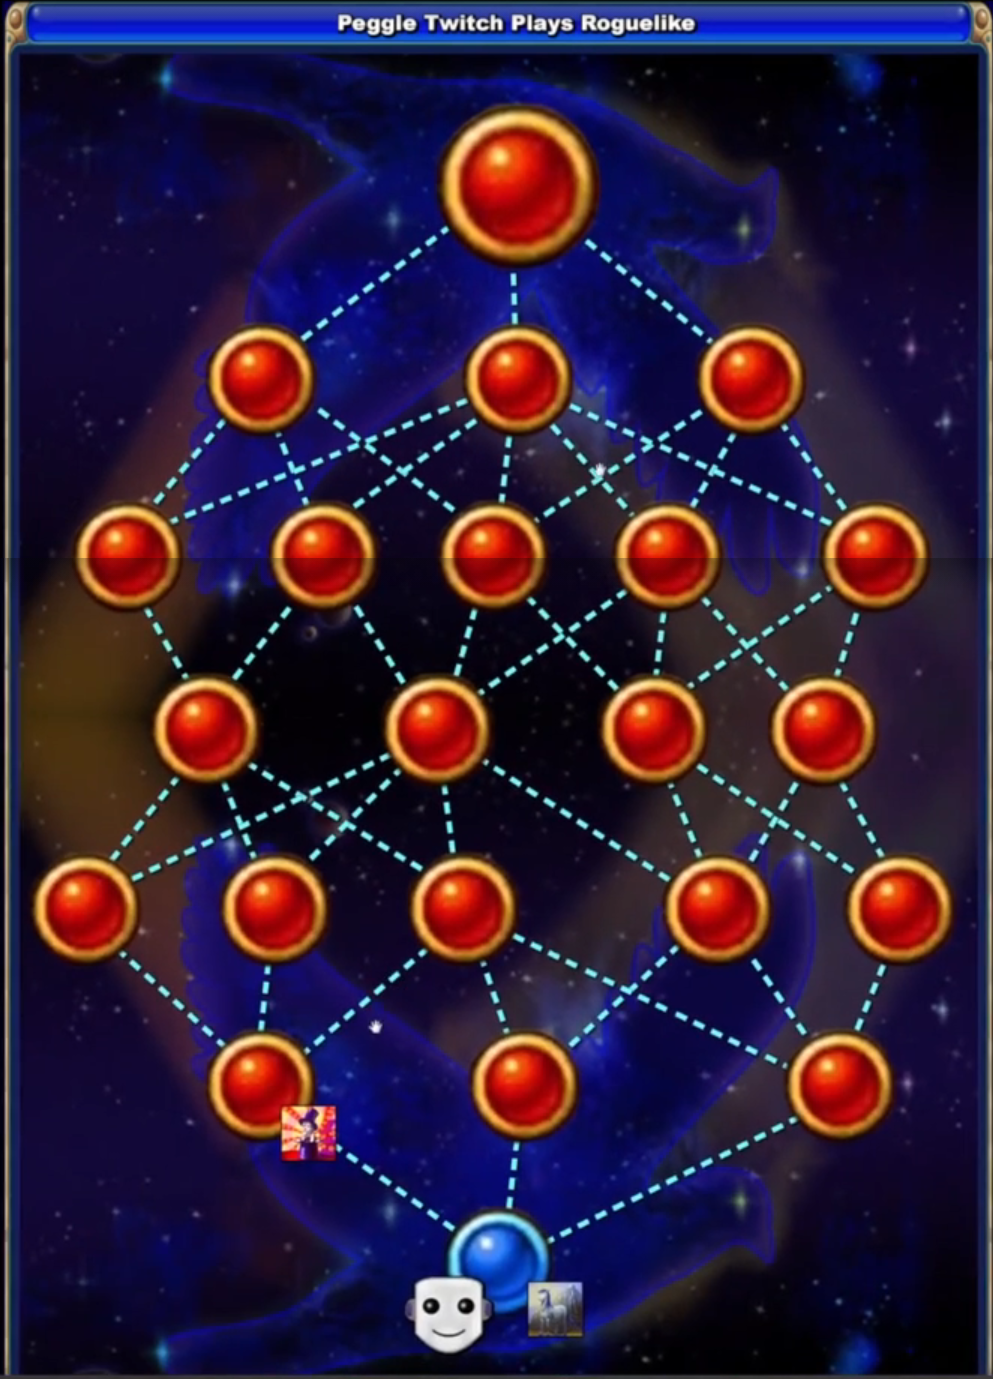
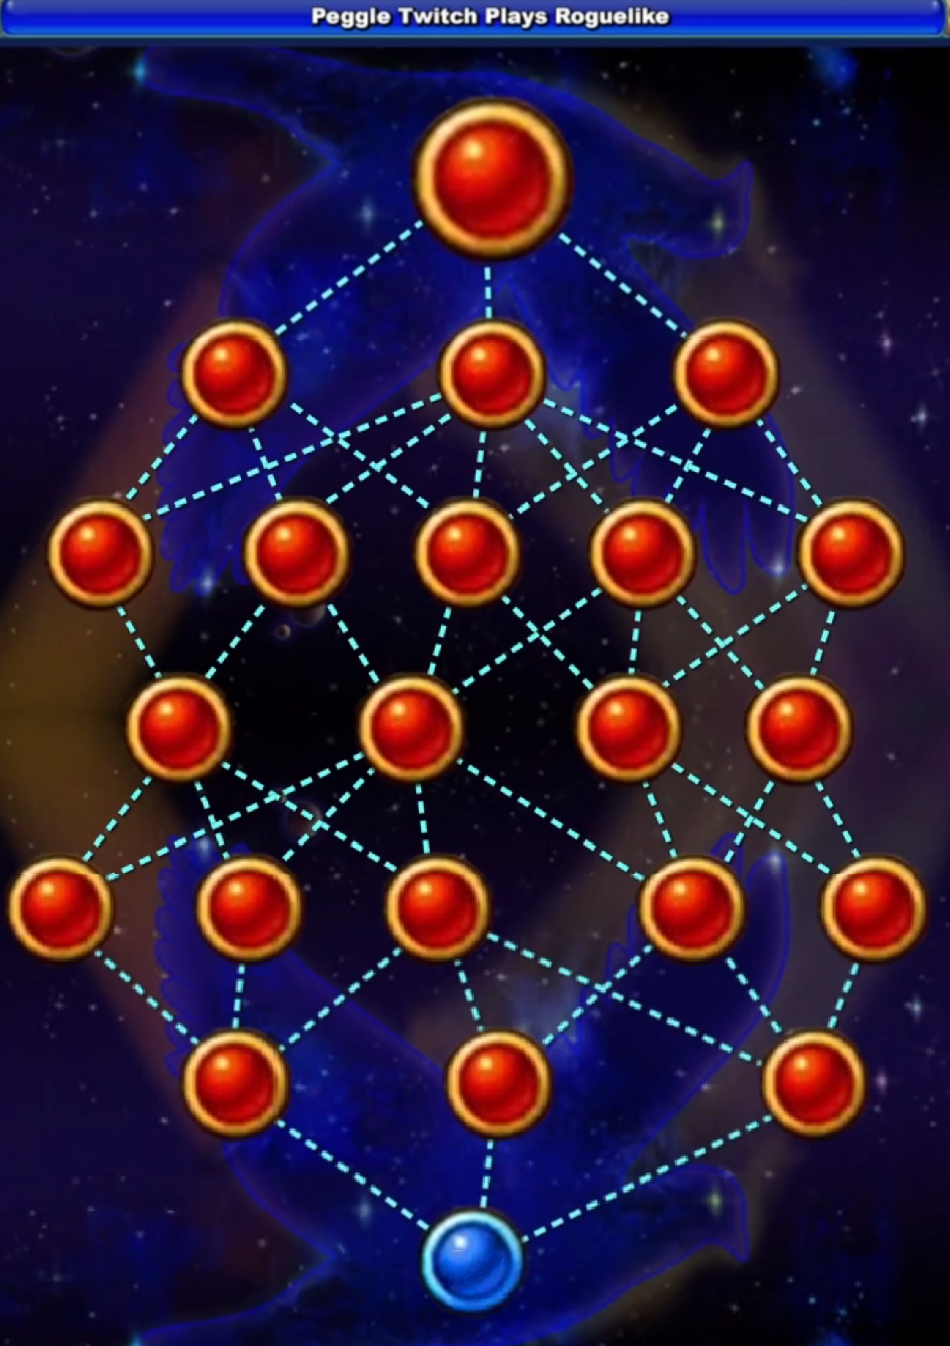
Initial Build v.0.2

diff --git a/main.py b/main.py
@@ -14,89 +14,136 @@
 
 
 import random
+import math
 from PIL import Image, ImageDraw, ImageFont
 
 font = ImageFont.truetype("C:\Windows\Fonts\ARLRDBD.TTF", 30)
-
-# array/dict of all peggle maps (constant)
-# 2d array of chapters-levels?
-
-# array of levels to choose from
-levels = []
-for chapter in range(5):
-    for level in range(5):
-        levels.append(str(chapter+1) + '-' + str(level+1))
-
-# array/list of all heroes (constant)
-heroes = ["Bjorn", "Jimmy", "Kat", "Splork", "Claude", "Renfield", "Tula", "Warren", "Cinderbottom", "Hu"]
-
-
-# array/list of main map (21 spots)
-main_map = []
-
-
-# add chapter-level and hero to map slot
-def add_level():
-    stage = levels.pop(random.randint(0, len(levels)-1))
-    # roll rng, pull a hero from array, put in main map/dict
-    hero = random.choice(heroes)
-
-    option = stage + " " + hero
-    main_map.append(option)
-
-
-# roll rng, pull 3 heroes from array, put in starting inventory (unique ideally)
-inventory = [random.choice(heroes), random.choice(heroes), random.choice(heroes)]
-
-# generate main_map slots
-while len(main_map) < 25:
-    add_level()
-
-print("map ")
-print(main_map)
-print("inventory ")
-print(inventory)
-
 
 # draw board
 board = Image.open('images/board.png').convert("RGBA")
 
 # board coords list
-# 515/185                                   x=185
-# 260/380 515/380 750/380                   x=380
+# canvas 950 x 1350
+# 490/180                                   x=185
+# 235/380 515/380 750/380                   x=380
 # 125/560 320/560 485/560 670/560 870/560   x=560
 # 200/730 430/730 650/730 820/730           x=730
 # 80/910 270/910 460/910 720/910 900/910    x=910
 # 260/1080 520/1080 840/1080                x=1080
-row1 = [515]
-row2 = [260, 515, 750]
-row3 = [125, 320, 485, 670, 870]
-row4 = [200, 430, 650, 820]
-row5 = [80, 270, 460, 720, 900]
-row6 = [260, 520, 840]
-row_height = [185, 380, 560, 730, 910, 1080]
+row1 = [493]
+row2 = [235, 493, 727]
+row3 = [100, 298, 468, 643, 853]
+row4 = [180, 412, 630, 800]
+row5 = [60, 250, 438, 695, 875]
+row6 = [235, 500, 815]
+row_height = [180, 375, 555, 730, 910, 1085]
 
 # 2d array of the above
 rows, cols = (6, 5)
 coords = [row1, row2, row3, row4, row5, row6]
 
-# add heroes to board
-# bjorn = Image.open('images/Bjornn.webp')
+#chapters in game
+chap = 11
+#levels per chapter
+lvls = 5
 
-# add levels to board
-# temp txt for level pic
-# ImageDraw.Draw(board).text((450, 140), main_map[0], font=font, fill="white", stroke_fill="black",
-# stroke_width=2, anchor="mm")
+# array of all peggle maps (constant)
+LEVELS = []
+for chapter in range(chap):
+    for level in range(lvls):
+        LEVELS.append(str(chapter + 1) + '-' + str(level + 1))
 
-slot = 0  # main_map[] iterator
+unique_stages = LEVELS.copy()
+total_stages = len(LEVELS)
+stage = ""
+
+# array/list of all heroes (constant)
+HEROES = ["Bjorn", "Jimmy", "Kat", "Splork", "Claude", "Renfield", "Tula", "Warren", "Cinderbottom", "Hu"]
+unique_heroes = HEROES.copy()
+total_heroes = len(HEROES)
+hero = ""
+
+
+# array/list of main map
+main_map = []
+
+print("unique_heroes[] ", unique_heroes)
+
+# add chapter-level and hero to map slot
+def stage_roll(difficulty):
+    global stage
+    global LEVELS
+    if len(unique_stages) <= len(LEVELS)/3:
+        print("not enough levels")
+        quit()
+    match difficulty:
+        case "easy":
+            stage = unique_stages.pop(random.randint(0, math.ceil(total_stages * .33)))
+        case "medium":
+            stage = unique_stages.pop(random.randint(math.floor(total_stages * .33), math.ceil(total_stages * .66)))
+        case "hard":
+            stage = unique_stages.pop(random.randint(math.floor(total_stages * .66), math.ceil(total_stages - 6)))
+        case "boss":
+            stage = unique_stages.pop(random.randint(total_stages - 6, total_stages - 1))
+
+    return stage
+
+def hero_roll():
+    # roll rng, pull a hero from array, put in main map/dict
+    global unique_heroes
+    global hero
+    if len(unique_heroes) <= math.ceil(total_heroes/3):
+        unique_heroes = HEROES.copy()
+    hero = unique_heroes.pop(random.randint(0, len(unique_heroes)-1))
+    return hero
+
+def add_slot(diff):
+    # add slot to main_map
+    slot = stage_roll(diff) + " " + hero_roll()
+    main_map.append(slot)
+
+
+# roll rng, pull 3 heroes from array, put in starting inventory (unique ideally)
+inventory = random.sample(HEROES, 3)
+
+# generate main_map slots
+# how many rows in map? how many slots per row (range 3-5?)
+
+# hard coding number of slots for each difficulty based on board map
+boss = 1
+hard = 3
+medium = 9
+easy = 8
+
+# add boss
+add_slot("boss")
+# add hard
+for i in range(hard):
+    add_slot("hard")
+# add medium
+for i in range(medium):
+    add_slot("medium")
+# add easy
+for i in range(easy):
+    add_slot("easy")
+
+print("main_map[] = ", main_map)
+print("inventory ", inventory)
+
+
+main_map_i = 0  # main_map[] iterator
 
 # cycle through main_map to add images to board
 for i in range(rows):
     x = row_height[i]
 
-    for j in range(len(coords[i])):
+    for j in range(len(coords[i])) :
 
-        stage = Image.open("images/stages/" + main_map[slot][:3] + ".webp").convert("RGBA")
+        #break if main_map[x] out of range
+        if main_map_i >= len(main_map):
+            break
+
+        stage = Image.open("images/stages/" + main_map[main_map_i].split()[0] + ".webp").convert("RGBA")
         stage = stage.resize((100, 100))
 
         # crop stage image into a circle diameter of 130
@@ -106,11 +153,11 @@ for i in range(rows):
         board.paste(stage, (coords[i][j]-50, x-50), mask=mask)
 
         # stage text
-        ImageDraw.Draw(board).text((coords[i][j], x), main_map[slot][:3], font=font, fill="white",
+        ImageDraw.Draw(board).text((coords[i][j], x), main_map[main_map_i].split()[0], font=font, fill="white",
                                    stroke_fill="black", stroke_width=2, anchor="mm")
 
         # hero at slot
-        hero = Image.open("images/heroes/" + main_map[slot][4:] + ".webp")
+        hero = Image.open("images/heroes/" + main_map[main_map_i].split()[1] + ".webp")
         hero = hero.resize((50, 50))
 
         # crop stage image into a circle diameter of 130
@@ -120,12 +167,16 @@ for i in range(rows):
 
         board.paste(hero, (coords[i][j]+20, x+20), mask=mask)
 
-        slot += 1
+        main_map_i += 1
+
+    #break if main_map[x] out of range
+    if main_map_i >= len(main_map):
+        break
 
 for inv in range(len(inventory)):
     hero = Image.open("images/heroes/" + inventory[inv] + ".webp")
     hero = hero.resize((70, 70))
 
-    board.paste(hero, (650+(80*inv), 1280))
+    board.paste(hero, (650+(80*inv), 1250))
 
 board.show()
